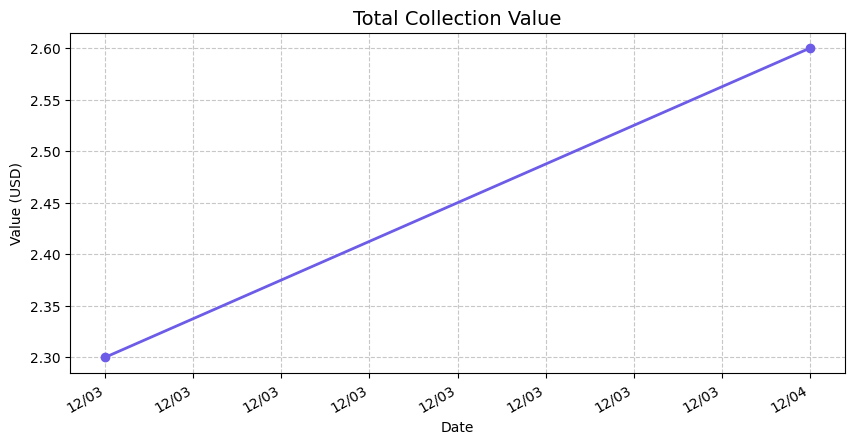
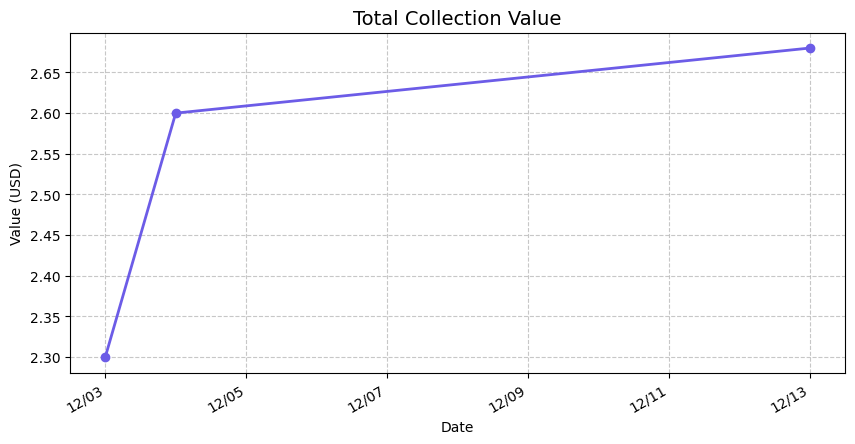
feat: Add individual card price trend tracking and display in the HTML report.

diff --git a/index.html b/index.html
@@ -35,11 +35,11 @@
             <div class="header">
                 <div>
                     <h1>My Collection</h1>
-                    <p>Last Updated: 2025-12-04</p>
+                    <p>Last Updated: 2025-12-13</p>
                 </div>
                 <div class="stats">
-                    <div class="total-value">$2.60</div>
-                    <div class="profit-loss">P/L: $-5.46</div>
+                    <div class="total-value">$2.68</div>
+                    <div class="profit-loss">P/L: $-5.39</div>
                 </div>
             </div>
             
@@ -57,10 +57,11 @@
                         <div class="card-name" title="Sol Ring">Sol Ring</div>
                         <div class="card-set">Edge of Eternities Commander</div>
                         <div class="card-price">
-                            $2.30
+                            $2.36
+                            <span class="trend-icon trend-up" title="Price went UP">▲</span>
                             <span class="card-qty">x2</span>
                         </div>
-                        <div class="card-pl pl-red">$-0.70</div>
+                        <div class="card-pl pl-red">$-0.64</div>
                     </div>
                 </div>
         
@@ -71,10 +72,11 @@
                         <div class="card-name" title="Dark Magician">Dark Magician</div>
                         <div class="card-set">2016 Mega-Tins</div>
                         <div class="card-price">
-                            $0.24
+                            $0.25
+                            <span class="trend-icon trend-down" title="Price went DOWN">▼</span>
                             <span class="card-qty">x1</span>
                         </div>
-                        <div class="card-pl pl-red">$-4.76</div>
+                        <div class="card-pl pl-red">$-4.75</div>
                     </div>
                 </div>
         
@@ -85,7 +87,8 @@
                         <div class="card-name" title="Blue-Eyes White Dragon">Blue-Eyes White Dragon</div>
                         <div class="card-set">2016 Mega-Tins</div>
                         <div class="card-price">
-                            $0.06
+                            $0.07
+                            
                             <span class="card-qty">x1</span>
                         </div>
                         
@@ -100,6 +103,7 @@
                         <div class="card-set">Vintage Masters</div>
                         <div class="card-price">
                             $N/A
+                            
                             <span class="card-qty">x1</span>
                         </div>
                         
@@ -114,6 +118,7 @@
                         <div class="card-set">Vintage Masters</div>
                         <div class="card-price">
                             $N/A
+                            
                             <span class="card-qty">x1</span>
                         </div>
                         

diff --git a/price_tracker.py b/price_tracker.py
@@ -15,6 +15,35 @@ import matplotlib.dates as mdates
 # --- Configuration ---
 DISCORD_WEBHOOK_URL = "" 
 ALERT_THRESHOLD_PERCENT = 10.0 
+LAST_PRICES_FILE = 'last_run_prices.json'
+
+def load_last_prices():
+    try:
+        if os.path.exists(LAST_PRICES_FILE):
+            with open(LAST_PRICES_FILE, 'r') as f:
+                return json.load(f)
+    except Exception as e:
+        print(f"Error loading last prices: {e}")
+    return {}
+
+def save_last_prices(all_data):
+    prices = {}
+    for item in all_data:
+        # Create a unique key: Game|CardName
+        key = f"{item['data']['game']}|{item['data']['name']}"
+        # Store unit price if available
+        try:
+             # item['data']['price'] is a string like "12.50" or "N/A"
+             price_val = float(item['data']['price'])
+             prices[key] = price_val
+        except ValueError:
+            pass # Skip N/A or invalid prices
+    
+    try:
+        with open(LAST_PRICES_FILE, 'w') as f:
+            json.dump(prices, f, indent=2)
+    except Exception as e:
+        print(f"Error saving last prices: {e}")
 
 def clean_txt(file_path):
     if not os.path.exists(file_path):
@@ -333,6 +362,7 @@ def generate_html_report(collected_data, total_value, total_profit_loss):
                         <div class="card-set">{data['set']}</div>
                         <div class="card-price">
                             ${price_str}
+                            {item.get('trend_html', '')}
                             <span class="card-qty">x{qty}</span>
                         </div>
                         {pl_html}
@@ -436,6 +466,29 @@ def main():
     # Sort by price
     all_data.sort(key=lambda x: x['sort_val'], reverse=True)
 
+    # NEW: Calculate trends
+    last_prices = load_last_prices()
+    for item in all_data:
+        key = f"{item['data']['game']}|{item['data']['name']}"
+        item['trend'] = 'same' # Default
+        item['trend_html'] = ''
+        
+        try:
+            current_price = float(item['data']['price'])
+            if key in last_prices:
+                last_price = last_prices[key]
+                if current_price > last_price:
+                    item['trend'] = 'up'
+                    item['trend_html'] = '<span class="trend-icon trend-up" title="Price went UP">▲</span>'
+                elif current_price < last_price:
+                    item['trend'] = 'down'
+                    item['trend_html'] = '<span class="trend-icon trend-down" title="Price went DOWN">▼</span>'
+                else:
+                    item['trend'] = 'same'
+                    # item['trend_html'] = '<span class="trend-icon trend-same" title="Price unchanged">-</span>'
+        except ValueError:
+            item['trend'] = None # No price data
+
     # 1. Update Excel
     try:
         wb = openpyxl.Workbook()
@@ -470,8 +523,12 @@ def main():
     # 2. Update History & Graph
     update_history_and_graph(total_collection_value)
     
+
     # 3. Generate HTML Report
     generate_html_report(all_data, total_collection_value, total_profit_loss)
+    
+    # 4. Save prices for next run
+    save_last_prices(all_data)
 
 if __name__ == "__main__":
     main()

diff --git a/README.md b/README.md
@@ -6,6 +6,7 @@ A powerful Python script to track the value of your **Magic: The Gathering** and
 
 *   **Two Games, One Tracker**: Combines MTG and YGO into one report.
 *   **📈 Price History**: Tracks your total collection value over time and generates a line graph.
+*   **🔼 Price Current Trends**: Shows ▲/▼ arrows to indicate if an individual card's price has changed since the last run.
 *   **🖼 Visual Report**: Creates an interactive HTML dashboard (`index.html`) with card images, prices, and stats.
 *   **💰 Profit/Loss Calculator**: See exactly how much money you've made (or lost) on each card.
 *   **🚨 Discord Alerts**: Get notified automatically when your collection value spikes.
@@ -52,6 +53,7 @@ python price_tracker.py
 *   **index.html**: Open this in your browser to see your **Visual Report**.
 *   **MY_COLLECTION_PRICES.xlsx**: The detailed spreadsheet of your collection.
 *   **price_history.csv**: The raw data log of your collection's value over time.
+*   **last_run_prices.json**: Stores the prices from the last run to calculate trends.
 *   **history_graph.png**: The image file of your value graph.
 
 ## API Usage
